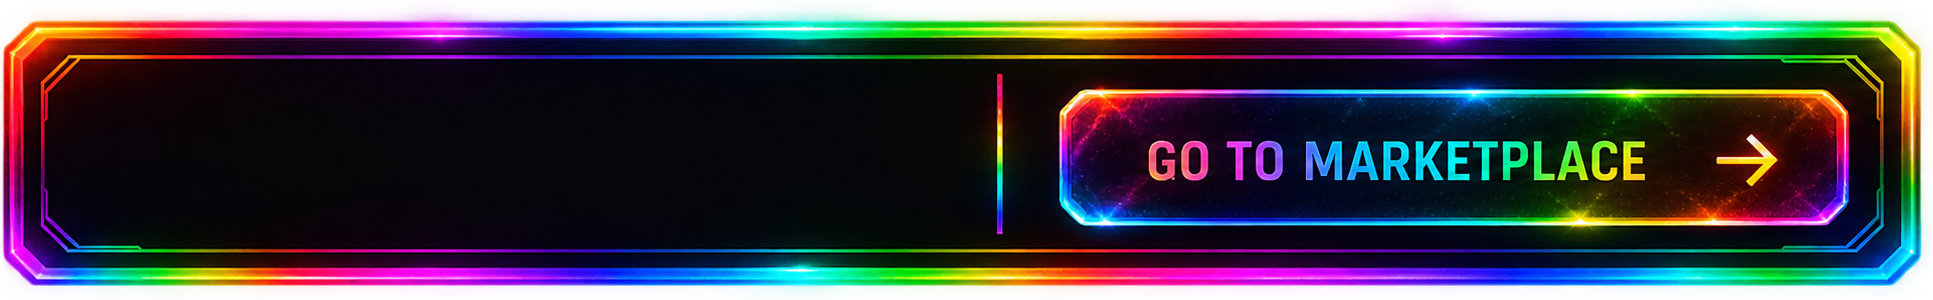
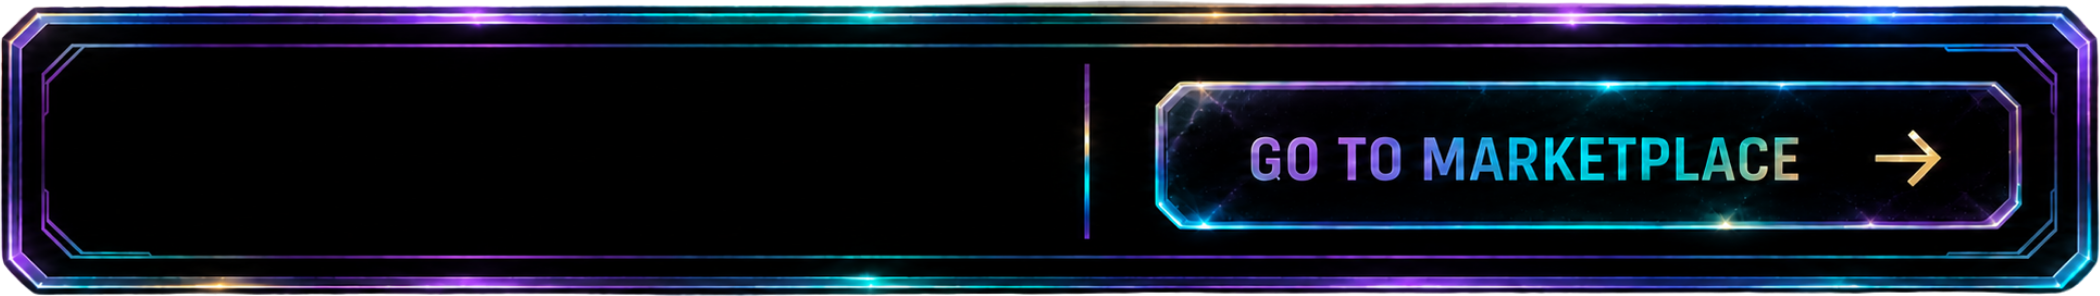
New mythic palette, one sale backdrop per rarity

diff --git a/api/og.js b/api/og.js
@@ -319,7 +319,10 @@ export default async function handler(req) {
   const rc = rgb(rgbc);
   /* MYTHIC is a rainbow on the card and on the bar. One colour cannot
      stand in for it, so the border and the figure take a gradient. */
-  const RAINBOW = "linear-gradient(90deg,#ff3b3b,#ffb03b,#ffe83b,#4bd964,#3bd0ff,#7a5bff,#ff3bd0)";
+  /* Violet, blue, cyan, gold -- the palette the mythic bar on the reveal
+     screen was redrawn in. A full spectrum here and that palette there
+     read as two different rarities wearing the same name. */
+  const RAINBOW = "linear-gradient(90deg,#a04bff,#5b6bff,#2f8fe0,#00b6e2,#00cfc0,#e8c07a,#b06ee3)";
   const isRainbow = rarity === "mythic";
 
   /* Rarities whose backdrop already carries the plate. Drawing another
